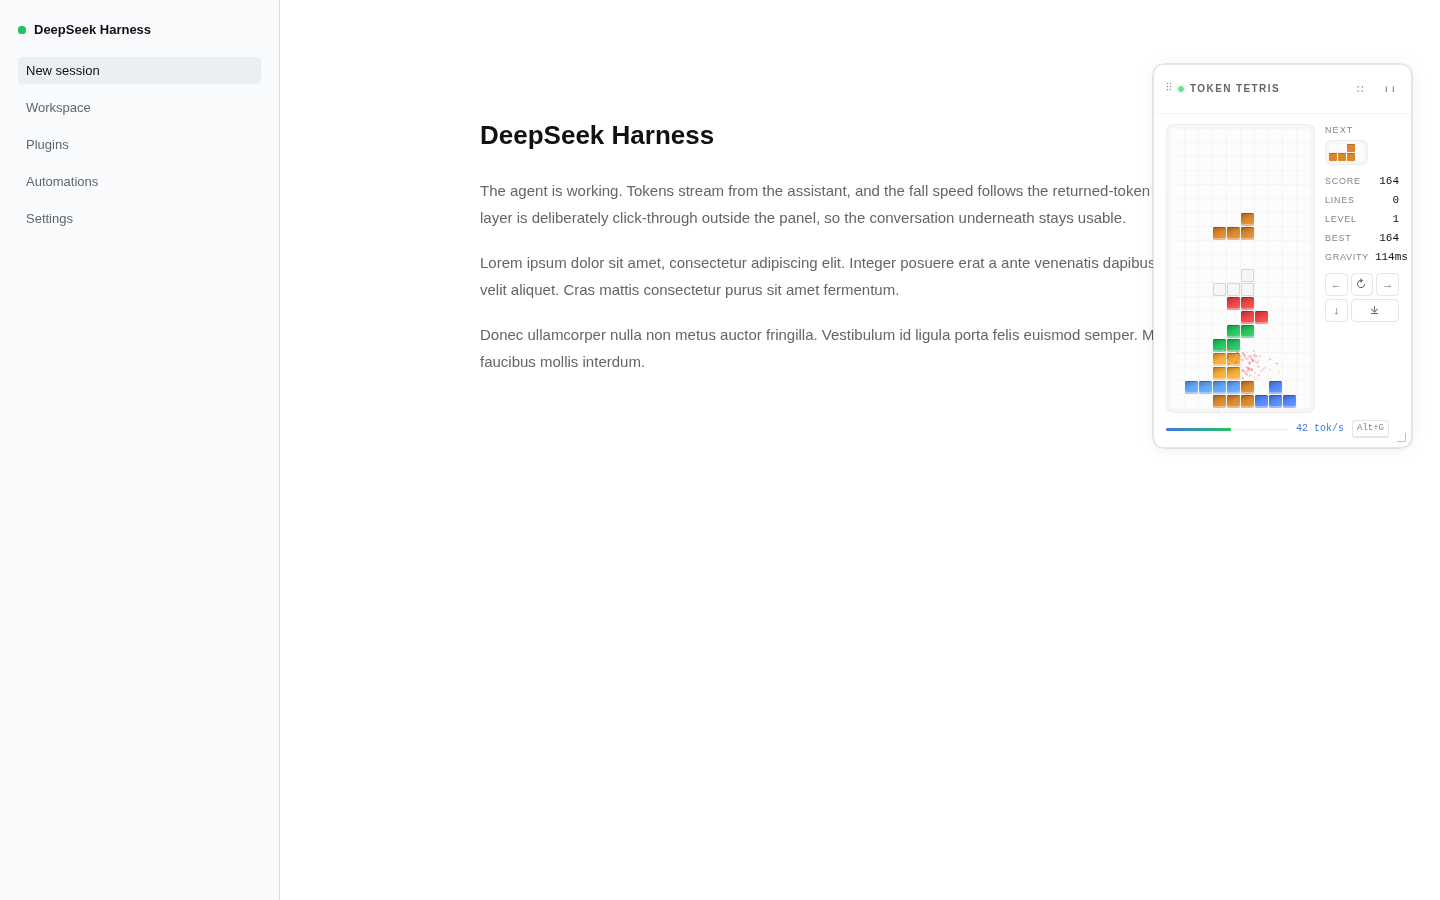
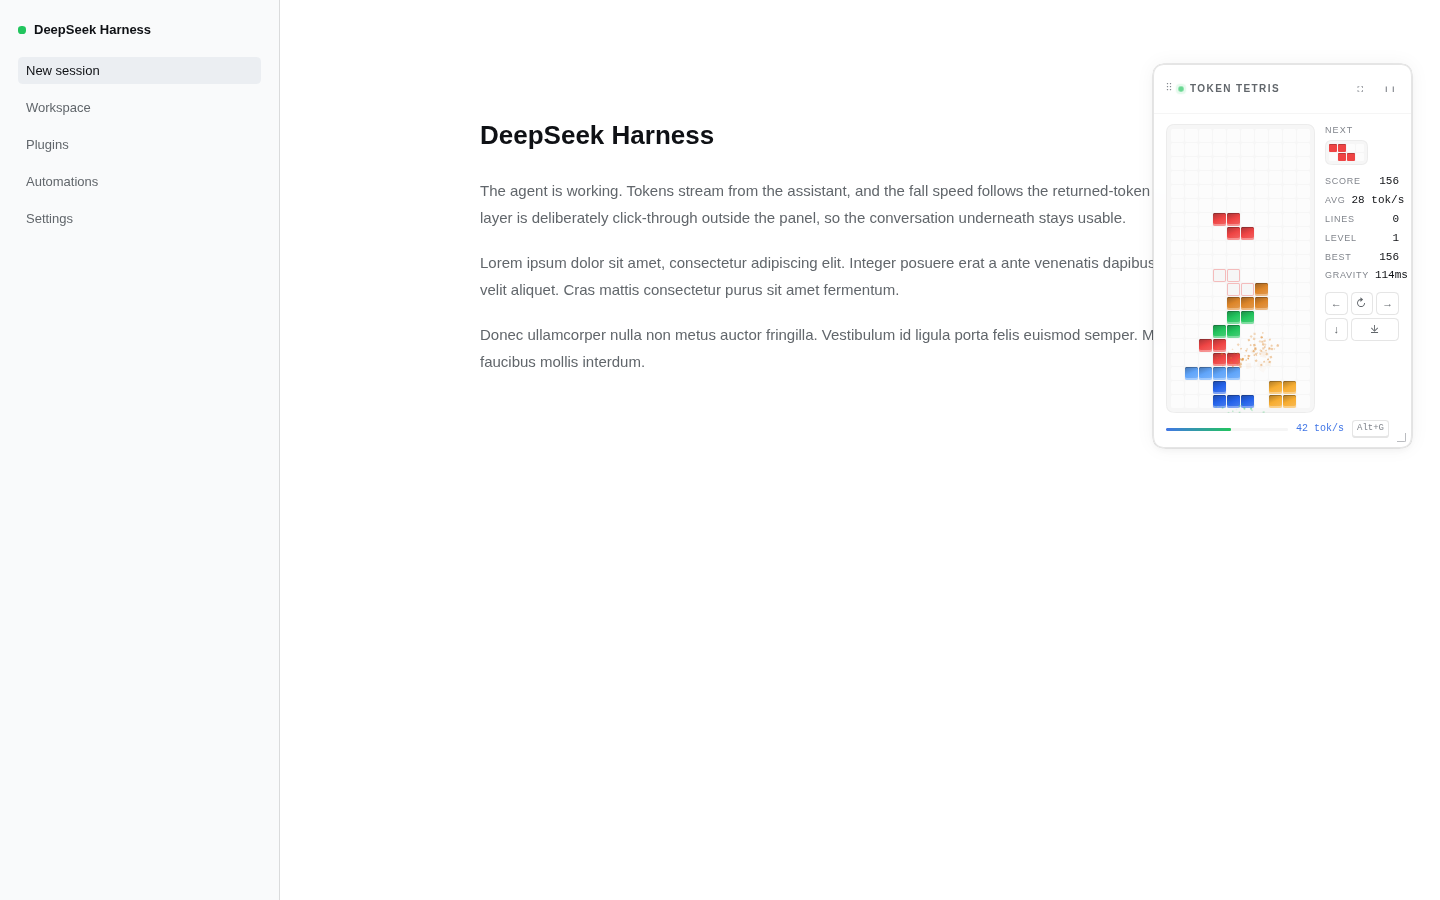
feat: show average token speed with score

diff --git a/lib/client.js b/lib/client.js
@@ -246,7 +246,7 @@
         return lockPiece(state);
       return { ...state, lockTime };
     }
-    function createInitialState(highScore = 0) {
+    function createInitialState(highScore = 0, gameId = 1) {
       const queue = fillQueue([], 5);
       const kind = queue[0] ?? "I";
       return {
@@ -259,7 +259,8 @@
         status: "playing",
         highScore: Math.max(0, highScore),
         lockTime: 0,
-        lastLock: null
+        lastLock: null,
+        gameId
       };
     }
     function reduceGame(state, action) {
@@ -312,7 +313,7 @@
             return state;
           return { ...state, status: state.status === "paused" ? "playing" : "paused" };
         case "restart":
-          return createInitialState(state.highScore);
+          return createInitialState(state.highScore, state.gameId + 1);
       }
     }
     function gravityInterval(level, tokensPerSecond) {
@@ -515,6 +516,10 @@
       const dragRef = import_react.useRef(null);
       const resizeRef = import_react.useRef(null);
       const tokens = Math.max(0, tokensPerSecond);
+      const rateRef = import_react.useRef(tokens);
+      rateRef.current = tokens;
+      const rateStatsRef = import_react.useRef({ elapsed: 0, weighted: 0, lastAt: performance.now() });
+      const [averageTokens, setAverageTokens] = import_react.useState(0);
       const interval = gravityInterval(state.level, tokens);
       const intervalRef = import_react.useRef(interval);
       intervalRef.current = interval;
@@ -651,6 +656,26 @@
       import_react.useEffect(() => {
         saveHighScore(state.highScore);
       }, [state.highScore]);
+      import_react.useEffect(() => {
+        const now = performance.now();
+        rateStatsRef.current = { elapsed: 0, weighted: 0, lastAt: now };
+        setAverageTokens(0);
+      }, [state.gameId]);
+      import_react.useEffect(() => {
+        const timer = window.setInterval(() => {
+          const now = performance.now();
+          const stats = rateStatsRef.current;
+          const dt = Math.max(0, (now - stats.lastAt) / 1000);
+          stats.lastAt = now;
+          if (stateRef.current.status === "playing") {
+            stats.elapsed += dt;
+            stats.weighted += rateRef.current * dt;
+          }
+          const nextAverage = stats.elapsed > 0 ? stats.weighted / stats.elapsed : 0;
+          setAverageTokens((current) => Math.abs(current - nextAverage) < 0.05 ? current : nextAverage);
+        }, 500);
+        return () => clearInterval(timer);
+      }, []);
       import_react.useEffect(() => {
         const canvas = canvasRef.current;
         const wrap = canvas?.parentElement;
@@ -1312,6 +1337,10 @@
                           className: "tt-modal-sub",
                           children: t("finalScore", { score: state.score })
                         }),
+                        /* @__PURE__ */ jsx_runtime.jsx("div", {
+                          className: "tt-modal-sub",
+                          children: t("finalAverage", { rate: Math.round(averageTokens) })
+                        }),
                         /* @__PURE__ */ jsx_runtime.jsx("button", {
                           type: "button",
                           className: "tt-modal-btn",
@@ -1350,6 +1379,10 @@
                         /* @__PURE__ */ jsx_runtime.jsx(Stat, {
                           label: t("stat.score"),
                           value: formatNumber(state.score)
+                        }),
+                        /* @__PURE__ */ jsx_runtime.jsx(Stat, {
+                          label: t("stat.avg"),
+                          value: t("tokensPerSecond", { rate: Math.round(averageTokens) })
                         }),
                         /* @__PURE__ */ jsx_runtime.jsx(Stat, {
                           label: t("stat.lines"),
@@ -1485,6 +1518,7 @@
       tokensPerSecond: "{rate} tok/s",
       next: "next",
       "stat.score": "score",
+      "stat.avg": "avg",
       "stat.lines": "lines",
       "stat.level": "level",
       "stat.best": "best",
@@ -1495,6 +1529,7 @@
       paused: "Paused",
       gameOver: "Game over",
       finalScore: "Score {score}",
+      finalAverage: "Average {rate} tok/s",
       hint: "← → ↑ ↓ ␣",
       "hint.full": "Alt+G focus · ← → move · ↑ rotate · ↓ soft drop · space hard drop · P pause · F fullscreen",
       "focus.shortcut": "Alt+G",
@@ -1523,6 +1558,7 @@
       tokensPerSecond: "{rate} tok/s",
       next: "下一个",
       "stat.score": "得分",
+      "stat.avg": "平均",
       "stat.lines": "行数",
       "stat.level": "等级",
       "stat.best": "最高",
@@ -1533,6 +1569,7 @@
       paused: "已暂停",
       gameOver: "游戏结束",
       finalScore: "得分 {score}",
+      finalAverage: "平均 {rate} tok/s",
       hint: "← → ↑ ↓ ␣",
       "hint.full": "Alt+G 聚焦 · ← → 移动 · ↑ 旋转 · ↓ 软降 · 空格 硬降 · P 暂停 · F 全屏",
       "focus.shortcut": "Alt+G",

diff --git a/src/client/TokenTetrisOverlay.tsx b/src/client/TokenTetrisOverlay.tsx
@@ -223,6 +223,10 @@ function TetrisGame({ t, tokensPerSecond }: TetrisGameProps) {
   const resizeRef = useRef<ResizeState | null>(null)
 
   const tokens = Math.max(0, tokensPerSecond)
+  const rateRef = useRef(tokens)
+  rateRef.current = tokens
+  const rateStatsRef = useRef({ elapsed: 0, weighted: 0, lastAt: performance.now() })
+  const [averageTokens, setAverageTokens] = useState(0)
   const interval = gravityInterval(state.level, tokens)
   const intervalRef = useRef(interval)
   intervalRef.current = interval
@@ -366,6 +370,28 @@ function TetrisGame({ t, tokensPerSecond }: TetrisGameProps) {
   useEffect(() => {
     saveHighScore(state.highScore)
   }, [state.highScore])
+
+  useEffect(() => {
+    const now = performance.now()
+    rateStatsRef.current = { elapsed: 0, weighted: 0, lastAt: now }
+    setAverageTokens(0)
+  }, [state.gameId])
+
+  useEffect(() => {
+    const timer = window.setInterval(() => {
+      const now = performance.now()
+      const stats = rateStatsRef.current
+      const dt = Math.max(0, (now - stats.lastAt) / 1000)
+      stats.lastAt = now
+      if (stateRef.current.status === 'playing') {
+        stats.elapsed += dt
+        stats.weighted += rateRef.current * dt
+      }
+      const nextAverage = stats.elapsed > 0 ? stats.weighted / stats.elapsed : 0
+      setAverageTokens((current) => (Math.abs(current - nextAverage) < 0.05 ? current : nextAverage))
+    }, 500)
+    return () => clearInterval(timer)
+  }, [])
 
   useEffect(() => {
     const canvas = canvasRef.current
@@ -998,6 +1024,9 @@ function TetrisGame({ t, tokensPerSecond }: TetrisGameProps) {
               <div className="tt-modal" role="status">
                 <div className="tt-modal-title">{t('gameOver')}</div>
                 <div className="tt-modal-sub">{t('finalScore', { score: state.score })}</div>
+                <div className="tt-modal-sub">
+                  {t('finalAverage', { rate: Math.round(averageTokens) })}
+                </div>
                 <button type="button" className="tt-modal-btn" onClick={() => act({ type: 'restart' })}>
                   {t('restart')}
                 </button>
@@ -1024,6 +1053,10 @@ function TetrisGame({ t, tokensPerSecond }: TetrisGameProps) {
 
             <div className="tt-stats">
               <Stat label={t('stat.score')} value={formatNumber(state.score)} />
+              <Stat
+                label={t('stat.avg')}
+                value={t('tokensPerSecond', { rate: Math.round(averageTokens) })}
+              />
               <Stat label={t('stat.lines')} value={formatNumber(state.lines)} />
               <Stat label={t('stat.level')} value={formatNumber(state.level)} />
               <Stat label={t('stat.best')} value={formatNumber(state.highScore)} />

diff --git a/src/client/game.ts b/src/client/game.ts
@@ -45,6 +45,8 @@ export interface GameState {
   readonly lockTime: number
   /** The most recent lock, or null before the first piece settles. */
   readonly lastLock: LockEvent | null
+  /** Monotonic game identity; restarts increment it so per-game stats reset. */
+  readonly gameId: number
 }
 
 export type GameAction =
@@ -278,7 +280,7 @@ function stepDown(state: GameState, manual: boolean, dt: number): GameState {
   return { ...state, lockTime }
 }
 
-export function createInitialState(highScore = 0): GameState {
+export function createInitialState(highScore = 0, gameId = 1): GameState {
   const queue = fillQueue([], 5)
   const kind = queue[0] ?? 'I'
   return {
@@ -292,6 +294,7 @@ export function createInitialState(highScore = 0): GameState {
     highScore: Math.max(0, highScore),
     lockTime: 0,
     lastLock: null,
+    gameId,
   }
 }
 
@@ -341,7 +344,7 @@ export function reduceGame(state: GameState, action: GameAction): GameState {
       if (state.status === 'over') return state
       return { ...state, status: state.status === 'paused' ? 'playing' : 'paused' }
     case 'restart':
-      return createInitialState(state.highScore)
+      return createInitialState(state.highScore, state.gameId + 1)
   }
 }
 

diff --git a/src/client/locale.ts b/src/client/locale.ts
@@ -10,6 +10,7 @@ export const EN: Record<string, string> = {
   'tokensPerSecond': '{rate} tok/s',
   next: 'next',
   'stat.score': 'score',
+  'stat.avg': 'avg',
   'stat.lines': 'lines',
   'stat.level': 'level',
   'stat.best': 'best',
@@ -20,6 +21,7 @@ export const EN: Record<string, string> = {
   paused: 'Paused',
   'gameOver': 'Game over',
   'finalScore': 'Score {score}',
+  'finalAverage': 'Average {rate} tok/s',
   hint: '← → ↑ ↓ ␣',
   'hint.full': 'Alt+G focus · ← → move · ↑ rotate · ↓ soft drop · space hard drop · P pause · F fullscreen',
   'focus.shortcut': 'Alt+G',
@@ -49,6 +51,7 @@ export const ZH: Record<string, string> = {
   'tokensPerSecond': '{rate} tok/s',
   next: '下一个',
   'stat.score': '得分',
+  'stat.avg': '平均',
   'stat.lines': '行数',
   'stat.level': '等级',
   'stat.best': '最高',
@@ -59,6 +62,7 @@ export const ZH: Record<string, string> = {
   paused: '已暂停',
   'gameOver': '游戏结束',
   'finalScore': '得分 {score}',
+  'finalAverage': '平均 {rate} tok/s',
   hint: '← → ↑ ↓ ␣',
   'hint.full': 'Alt+G 聚焦 · ← → 移动 · ↑ 旋转 · ↓ 软降 · 空格 硬降 · P 暂停 · F 全屏',
   'focus.shortcut': 'Alt+G',

diff --git a/tests/game.test.ts b/tests/game.test.ts
@@ -23,6 +23,7 @@ assert.equal(SHAPES.T.length, 4)
 const initial = createInitialState(123)
 assert.equal(initial.status, 'playing')
 assert.equal(initial.highScore, 123)
+assert.equal(initial.gameId, 1)
 assert.ok(initial.queue.length >= 5)
 assert.ok(collides(initial.board, createPiece('I'), -1, 0))
 assert.ok(!collides(initial.board, createPiece('I'), 0, 0))
@@ -80,5 +81,6 @@ const paused = reduceGame(initial, { type: 'toggle-pause' })
 assert.equal(paused.status, 'paused')
 assert.equal(reduceGame(paused, { type: 'tick', dt: 100 }), paused)
 assert.equal(reduceGame(paused, { type: 'toggle-pause' }).status, 'playing')
+assert.equal(reduceGame(initial, { type: 'restart' }).gameId, 2)
 
 console.log('game: ok')

diff --git a/README.md b/README.md
@@ -19,6 +19,7 @@
   - `≥ 53 tok/s` → 95 ms/格（下限）
 - **落点锁延迟**：方块触底后有 260ms 的锁延迟，期间仍可左右移动/旋转；左右键带 165ms DAS + 45ms 自动重复，因此高速下落时也能调整位置。
 - **锁定沙化**：方块锁定时，锁定格会迸出彩色沙粒；沙粒受重力下落、旋转并淡出，看起来像方块碎成沙子。
+- **平均 token 速度**：侧栏 `AVG` 显示本局按实际游玩时间加权的平均 tok/s；Game Over 弹窗同时显示最终得分与平均速率。
 - **自动聚焦 / 失焦暂停**：面板出现时自动获取焦点，并在约 2.5s 内多次重试，避免首次加载或发送消息后聊天输入框抢回焦点；面板失去焦点、窗口 blur 或标签页隐藏时自动暂停；未聚焦时面板顶部会显示明显的操作提示。重新点击面板或按 `P` 继续。
 - **主题**：面板、文字、边框、阴影、按钮全部使用 `--dsw-*` 语义 token；深色模式通过 `body[data-ds-dark-theme]` 自动切换。
 - **不阻塞对话**：注册在 `shell.overlay`（frame 级浮动层）。浮层本身是 click-through 的，只有游戏面板接收指针事件。
